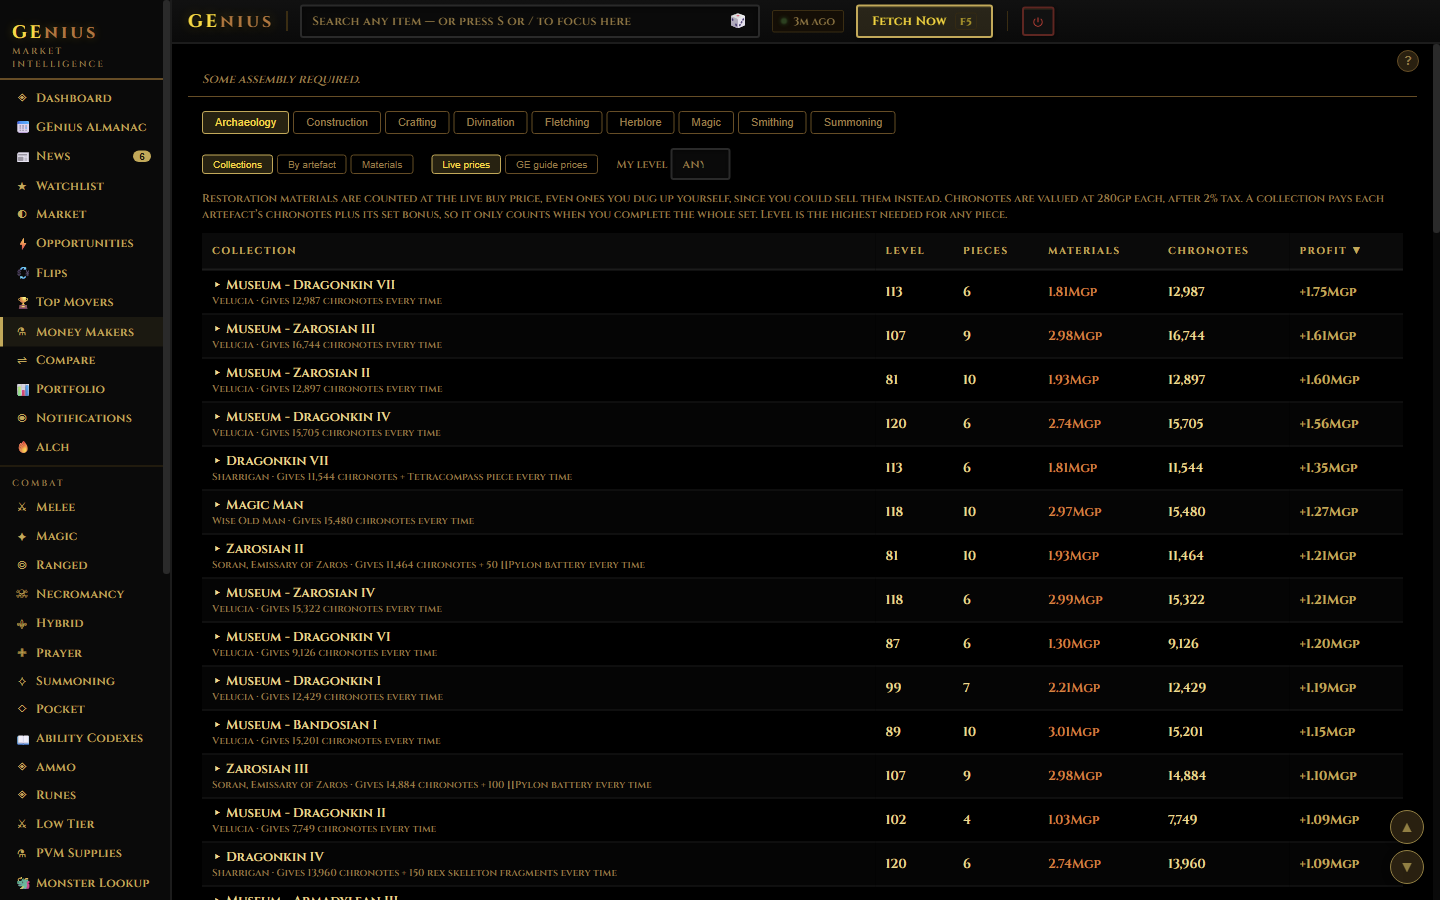
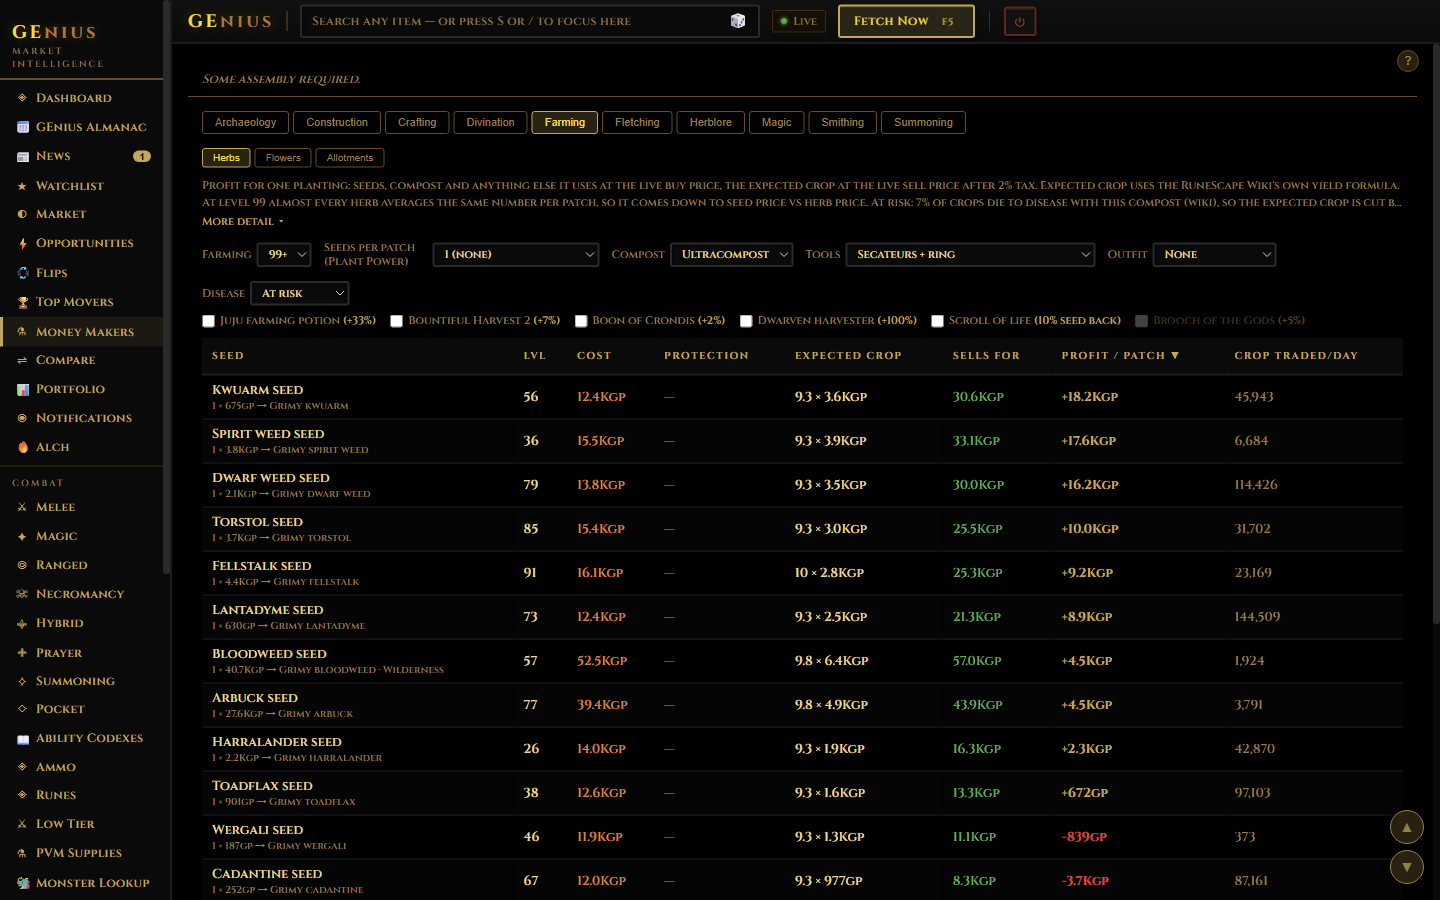
Site: Money Makers screenshot shows Farming; caption updated

diff --git a/scripts/site-shots.js b/scripts/site-shots.js
@@ -73,7 +73,8 @@ function fakeData(items) {
     'dashboard': `window.__geniusTest.goto('dashboard')`,
     'flips': `window.__geniusTest.goto('flips')`,
     'item': `(window.__geniusTest.goto('market'), new Promise(r => setTimeout(r, 1500)).then(() => window.__geniusTest.openItem('Dragon dart tip')))`,
-    'money-makers': `window.__geniusTest.goto('money_makers')`,
+    // Farming open (Ben, 2026-11-23): shows the skill pills and the newest calculator.
+    'money-makers': `window.__geniusTest.goto('money_makers').then(() => new Promise(r => setTimeout(r, 1200))).then(() => { const b = [...document.querySelectorAll('.content button')].find(x => x.textContent.trim() === 'Farming'); b && b.click(); return new Promise(r => setTimeout(r, 2000)); })`,
     'watchlist': `window.__geniusTest.goto('watchlist')`,
     // Phone shots: 412x915 at 2x (824x1830, the size on the site). IS_PHONE is
     // set once at load, so these run after a reload at phone size (below).

diff --git a/docs/index.html b/docs/index.html
@@ -464,7 +464,7 @@
       <div class="shot">
         <figure>
           <img loading="lazy" src="assets/shots/money-makers-dark.png" data-shot="money-makers" alt="GEnius Money Makers tab">
-          <figcaption>Money Makers: processing margins from live buy and sell prices.</figcaption>
+          <figcaption>Money Makers: profit per method from live buy and sell prices, across ten skills. Farming shown, with the wiki's own yield formula.</figcaption>
         </figure>
       </div>
       <div class="shot">
